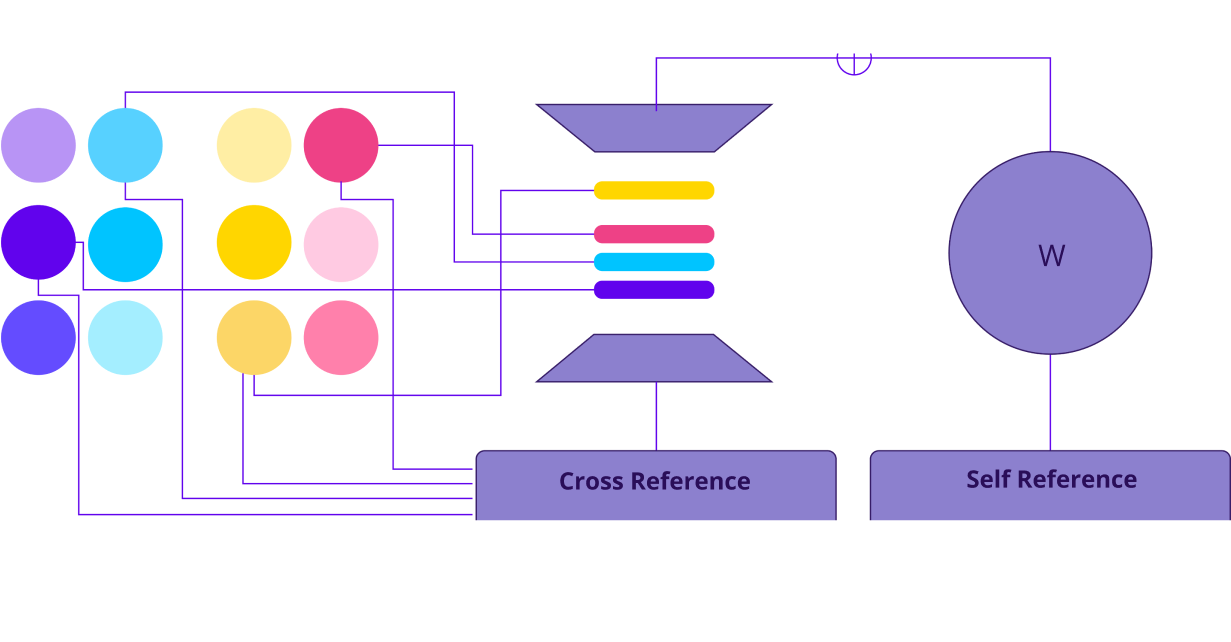
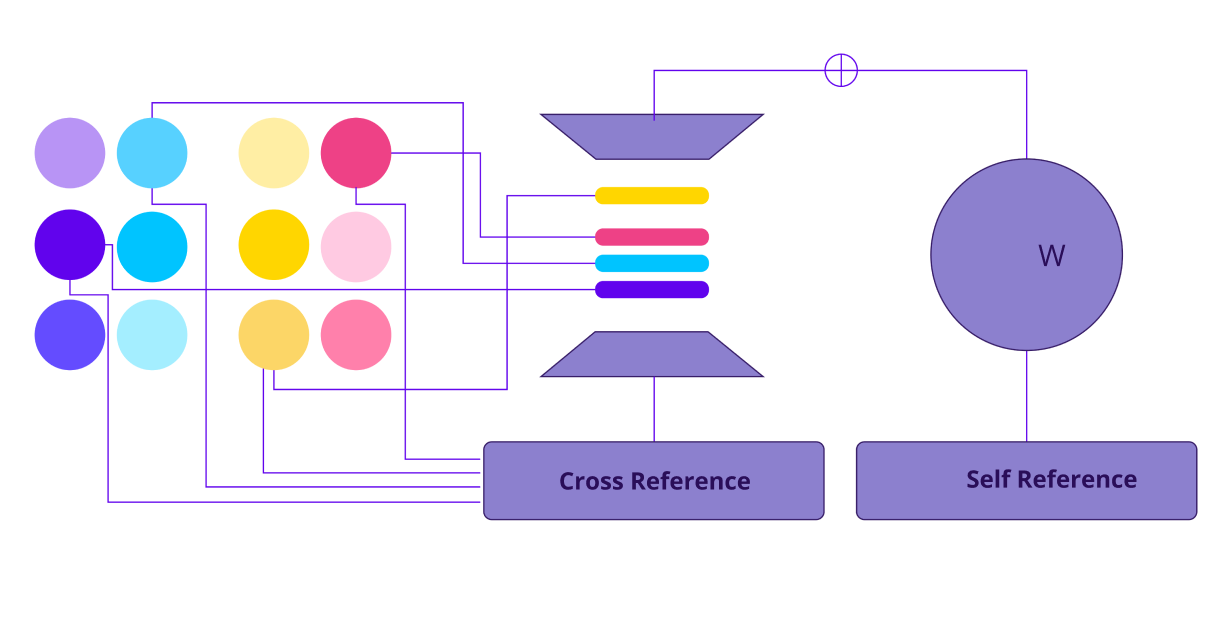
update

diff --git a/src/pages/home-page/sections/ecosystem.tsx b/src/pages/home-page/sections/ecosystem.tsx
@@ -27,11 +27,12 @@ const useStyles = createStyles((theme) => ({
         backdropFilter: 'blur(12px)',
     },
     content: {
-        padding: 26,
+        padding: 20,
         display: 'flex',
         flexDirection: 'column',
         alignItems: 'center',
-        color: '#ffffff'
+        color: '#ffffff',
+        lineHeight: '0.851rem'
     },
 
 
@@ -89,7 +90,7 @@ export const EcoSystem = () => {
             >
                 {item == 1 ? <BackgroundImage w={{ sm: 410, base: 320 }} h={{ sm: 340, base: 340 }} className={classes.bgItemDetail} mx="auto" src="images/one-chainai/svg/Acti1Detail.svg"    >
                     <Box className={classes.content}>
-                        <Text ff="Open Sans" fw={700} size={24} ta="center" >
+                        <Text mt={10} ff="Outfit" fw={700} size={24} ta="center" >
                             ChatGM
                         </Text>
                         <Image mt={15} src='images/one-chainai/svg/chatgm.svg' height={70} fit='contain' />
@@ -105,34 +106,36 @@ export const EcoSystem = () => {
 
                     </Box>
                 </BackgroundImage> : <></>}
-                {item == 2 ? <BackgroundImage w={{ sm: 500, base: 320 }} h={{ sm: 340, base: 400 }} className={classes.bgItemDetail} src="images/one-chainai/svg/Acti2Detail.svg"   >
+                {item == 2 ? <BackgroundImage w={280} h={460} className={classes.bgItemDetail} src="images/one-chainai/svg/Acti2Detail.svg"   >
                     <Box className={classes.content}>
-                        <Text ff="Open Sans" fw={700} size={24} ta="center" >
+                        <Text mt={10} ff="Outfit" fw={700} size={24} ta="center" >
                             Cryptobot.Chat
                         </Text>
-                        <Image mt={6} src='images/one-chainai/svg/cryptobot.chat.svg' height={70} fit='contain' />
-                        <Text color='#ACA1F2' mt={6} ff="Open Sans" fw={400} size={10} ta="center">
-                            <span style={{ fontWeight: 700, color: '#B894F5' }}>Cryptobot.Chat</span> uses 1Chain.AI to simplify crypto for everyone. Convert local currencies to crypto and vice versa, complete 1-step KYC, trade popular and alternative crypto assets (like altcoins and memecoins), and engage in yield farming (a kind of crypto saving) or airdrop hunting (complete tasks to get crypto rewards. Execute all tasks, from easy to complicated, on any blockchain, CEX, or DEX with simple AI chat commands. No more going through endless buttons, steps or different platforms – just chat with your CryptoBot and get all things crypto done effortlessly and securely.
+                        <Image mt={15} src='images/one-chainai/svg/cryptobot.chat.svg' height={70} fit='contain' />
+                        <Text color='#DEB3E1' mt={15} ff="Open Sans" fw={400} size={10} ta="center">
+                            <span style={{ fontWeight: 700, color: 'white' }}>Cryptobot.Chat</span> uses 1Chain.AI to simplify crypto for everyone. Convert local currencies to crypto and vice versa, complete 1-step KYC, trade popular and alternative crypto assets (like altcoins and memecoins), and engage in yield farming (a kind of crypto saving) or airdrop hunting (complete tasks to get crypto rewards. Execute all tasks, from easy to complicated, on any blockchain, CEX, or DEX with simple AI chat commands. No more going through endless buttons, steps or different platforms – just chat with your CryptoBot and get all things crypto done effortlessly and securely.
                         </Text>
-                        <Text mt={6} fw={700} size={32} color='#8E6B9E33' >
+                        <Text mt={15} fw={700} size={32} color='#8E6B9E33' >
                             Coming soon
                         </Text>
                     </Box>
                 </BackgroundImage> : <></>}
-                {item == 3 ? <BackgroundImage w={{ sm: 436, base: 320 }} h={{ sm: 340, base: 360 }} className={classes.bgItemDetail} src="images/one-chainai/svg/Acti3Detail.svg"   >
+                {item == 3 ? <Box w={280} h={385} style={{ background: 'linear-gradient(57.28deg, rgba(255, 65, 213, 0.4) 133.6%, rgba(255, 133, 199, 0.4) 168.69%, rgba(178, 81, 255, 0.4) 202.18%, rgba(117, 69, 255, 0.4) 239.6%)' }} className={classes.bgItemDetail}
+                // src="images/one-chainai/svg/Acti3Detail.svg" 
+                >
                     <Box className={classes.content}>
-                        <Text ff="Open Sans" fw={700} size={24} ta="center" >
+                        <Text mt={10} ff="Outfit" fw={700} size={24} ta="center" >
                             GamefiGuru
                         </Text>
-                        <Image mt={10} src='images/one-chainai/svg/gameguru.svg' height={70} fit='contain' />
-                        <Text color='#ACA1F2' mt={10} ff="Open Sans" fw={400} size={10} ta="center">
-                            <span style={{ fontWeight: 700, color: '#FF80AB' }}>GamefiGuru</span> uses 1Chain.AI to help new players get started with blockchain games. It provides easy onboarding, collects info about all the best pre-vetted web3 games, and guides players through necessary tasks to play and earn tokens or get whitelisted for pre-launched games. All of this is done through a simple AI chat interface, making it simple and secure for gamers.
+                        <Image mt={15} src='images/one-chainai/svg/gameguru.svg' height={70} fit='contain' />
+                        <Text color='#DA99BC' mt={15} ff="Open Sans" fw={400} size={10} ta="center">
+                            <span style={{ fontWeight: 700, color: 'white' }}>GamefiGuru</span> uses 1Chain.AI to help new players get started with blockchain games. It provides easy onboarding, collects info about all the best pre-vetted web3 games, and guides players through necessary tasks to play and earn tokens or get whitelisted for pre-launched games. All of this is done through a simple AI chat interface, making it simple and secure for gamers.
                         </Text>
-                        <Text mt={10} fw={700} size={32} color='#9E6B8D33' >
+                        <Text mt={15} fw={700} size={32} color='#9E6B8D33' >
                             Coming soon
                         </Text>
                     </Box>
-                </BackgroundImage> : <></>}
+                </Box> : <></>}
 
             </Modal>
             <Box

diff --git a/src/new-app.tsx b/src/new-app.tsx
@@ -10,6 +10,7 @@ import { ComingSon } from './pages/comingsoon';
 import { AboutUs } from './pages/about-us/about-us';
 import Mission from './pages/mission';
 import { Protocol } from './pages/protocol';
+import ScrollToTop from './scroll_to_top';
 
 const theme: MantineThemeOverride = {
   colorScheme: 'light',
@@ -170,40 +171,43 @@ export const App = () => {
       <MantineProvider withGlobalStyles withNormalizeCSS theme={theme}>
         <Notifications position="bottom-right" />
         <Router>
-          <AppShell
-            header={<AppHeader />}
-            footer={<AppFooter />}
-            styles={() => ({
-              root: {
-                padding: 0,
-                margin: 0,
-                background: '#00000026'
-              },
-              main: {
-                padding: 0,
-                margin: 0,
+          <ScrollToTop>
+            <AppShell
+              header={<AppHeader />}
+              footer={<AppFooter />}
+              styles={() => ({
+                root: {
+                  padding: 0,
+                  margin: 0,
+                  background: '#00000026'
+                },
+                main: {
+                  padding: 0,
+                  margin: 0,
 
-              },
-              body: {
-                padding: 0,
-                margin: 0,
+                },
+                body: {
+                  padding: 0,
+                  margin: 0,
 
-              }
-            })}
-          >
-            <Routes>
-              <Route path="/" element={<HomePage />} />
-              <Route path="/gm-ecosystem" element={<GmEcosystemPage />} />
-              <Route path="/fortress" element={<FortressPage />} />
-              <Route path="/tos" element={<TermsOfUsePage />} />
-              <Route path="/privacy-policy" element={<PPPage />} />
-              <Route path="/white-paper" element={<ComingSon />} />
-              <Route path="/about-us" element={<AboutUs />} />
-              <Route path="/500" element={<Error500Page />} />
-              <Route path="/mission" element={<Mission />} />
-              <Route path="/protocol" element={<Protocol />} />
-            </Routes>
-          </AppShell>
+                }
+              })}
+            >
+              <Routes>
+                <Route path="/" element={<HomePage />} />
+                <Route path="/gm-ecosystem" element={<GmEcosystemPage />} />
+                <Route path="/fortress" element={<FortressPage />} />
+                <Route path="/tos" element={<TermsOfUsePage />} />
+                <Route path="/privacy-policy" element={<PPPage />} />
+                <Route path="/white-paper" element={<ComingSon />} />
+                <Route path="/about-us" element={<AboutUs />} />
+                <Route path="/500" element={<Error500Page />} />
+                <Route path="/mission" element={<Mission />} />
+                <Route path="/protocol" element={<Protocol />} />
+              </Routes>
+            </AppShell>
+          </ScrollToTop>
+
         </Router>
       </MantineProvider>
     </QueryClientProvider>

diff --git a/src/scroll_to_top.tsx b/src/scroll_to_top.tsx
@@ -1,0 +1,15 @@
+import { useEffect } from "react";
+import { useLocation } from "react-router";
+
+const ScrollToTop = (props: { children: any; }) => {
+  const location = useLocation();
+  useEffect(() => {
+    if (!location.hash) {
+      window.scrollTo(0, 0);
+    }
+  }, [location]);
+
+  return <>{props.children}</>
+};
+
+export default ScrollToTop;

diff --git a/index.html b/index.html
@@ -20,6 +20,11 @@
   <meta name="twitter:description" content="Simplify Web3 Mass Adoption with AI" />
   <meta name="twitter:image" content="https://1chain.ai/images/seo/social.png" />
 </head>
+<script>
+  window.onbeforeunload = function () {
+    window.scrollTo(0, 0);
+  };
+</script>
 
 <body>
   <div id="root"></div>
